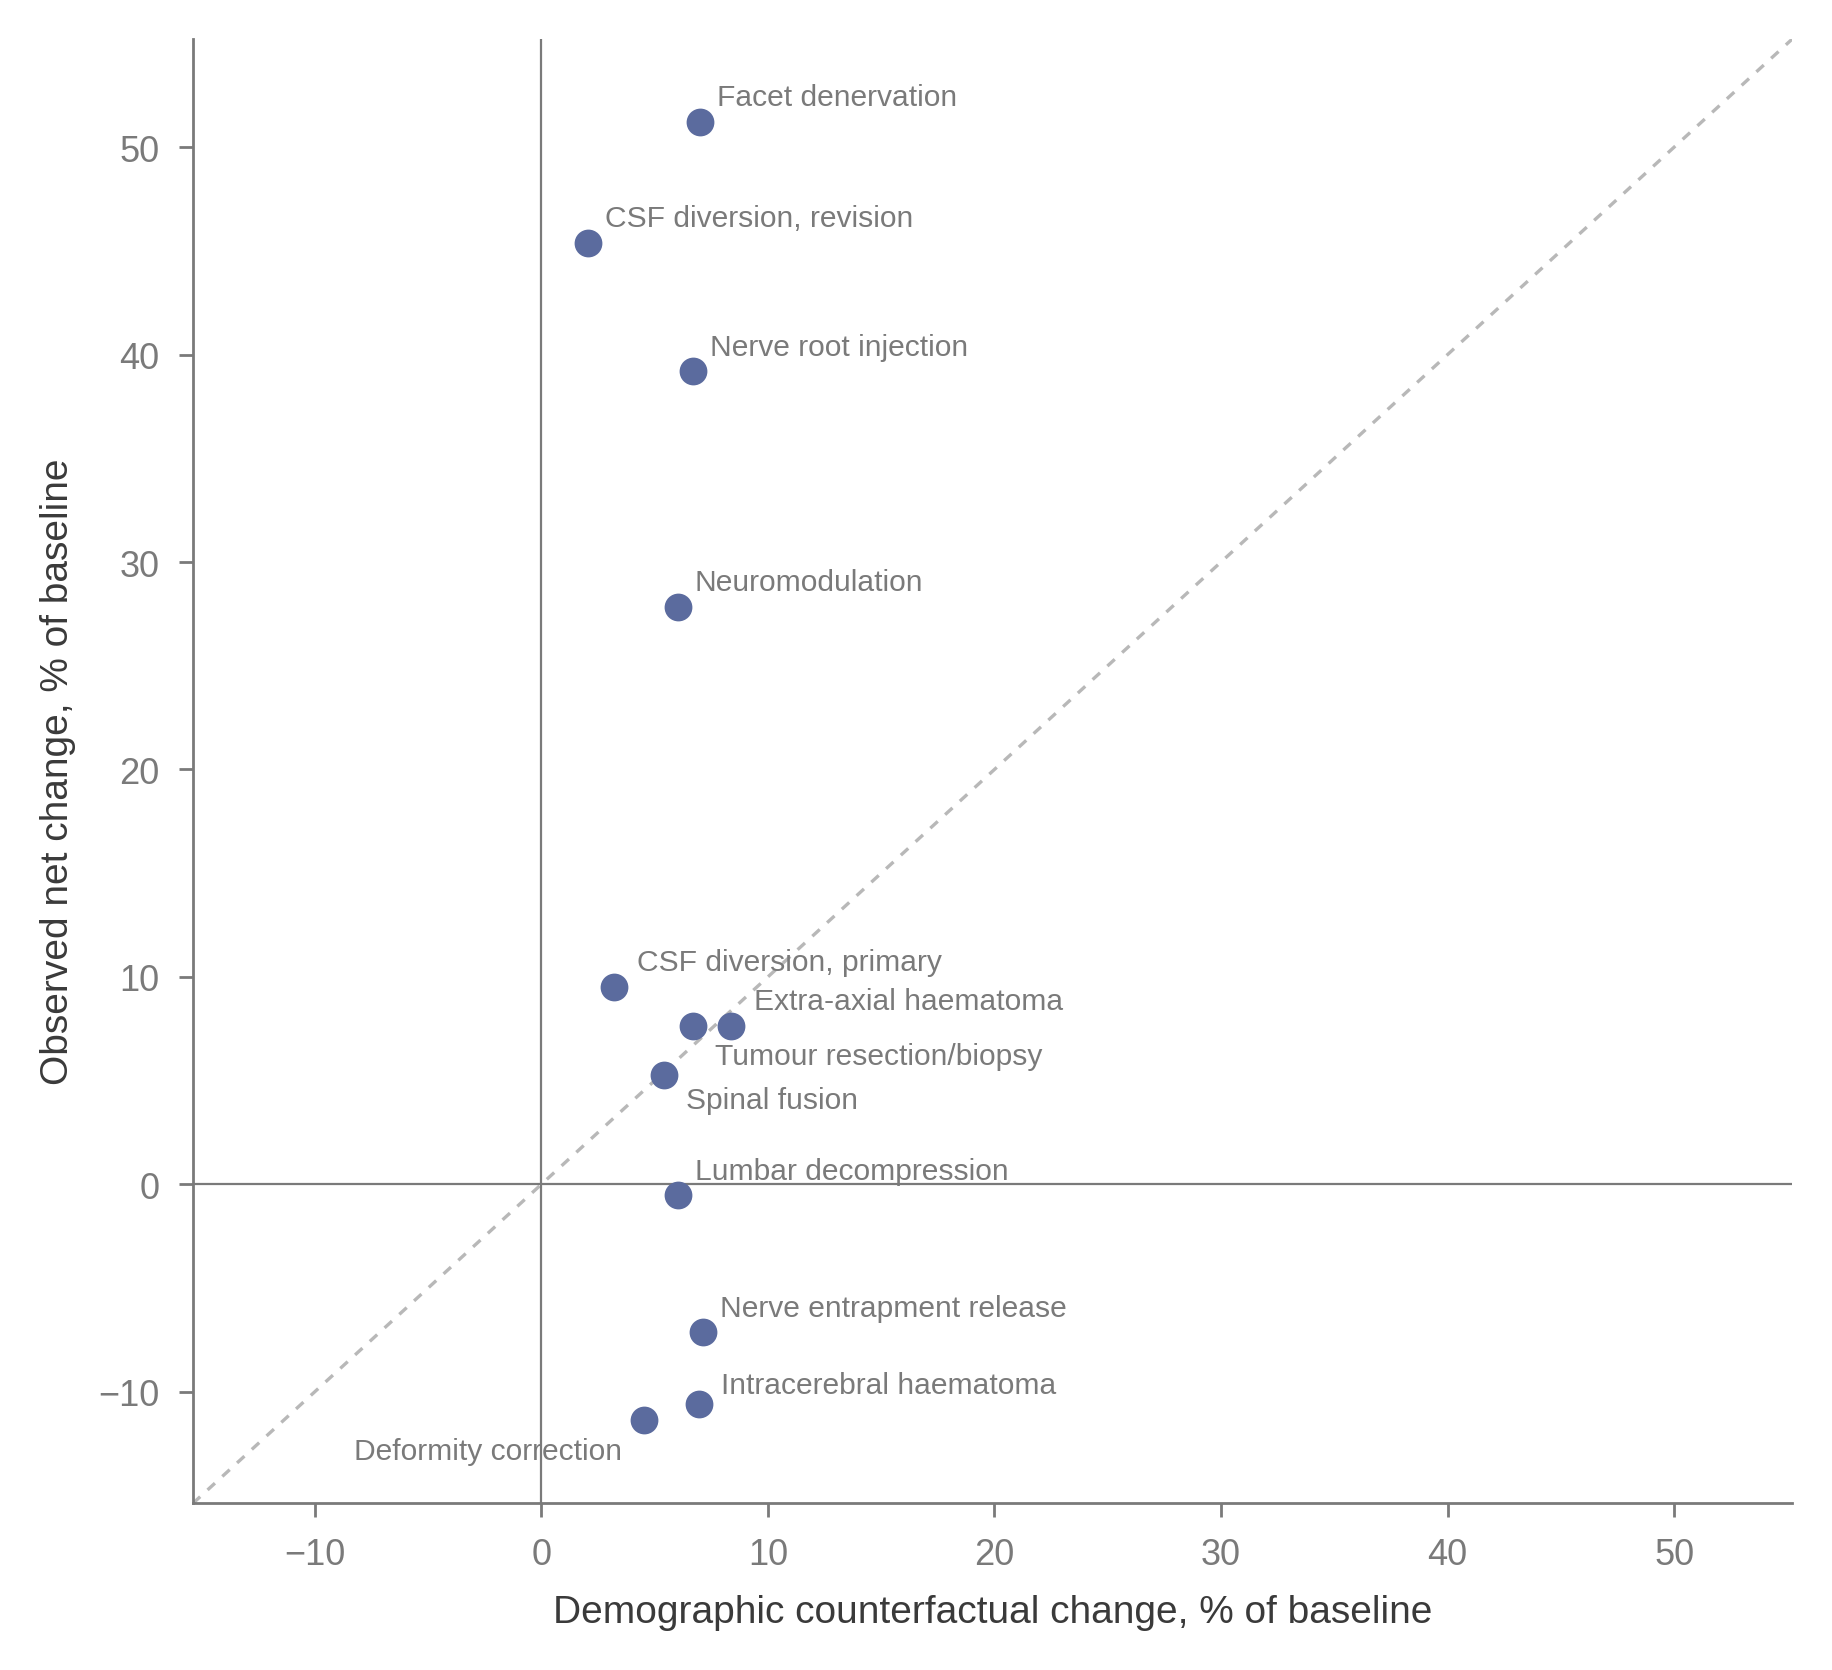
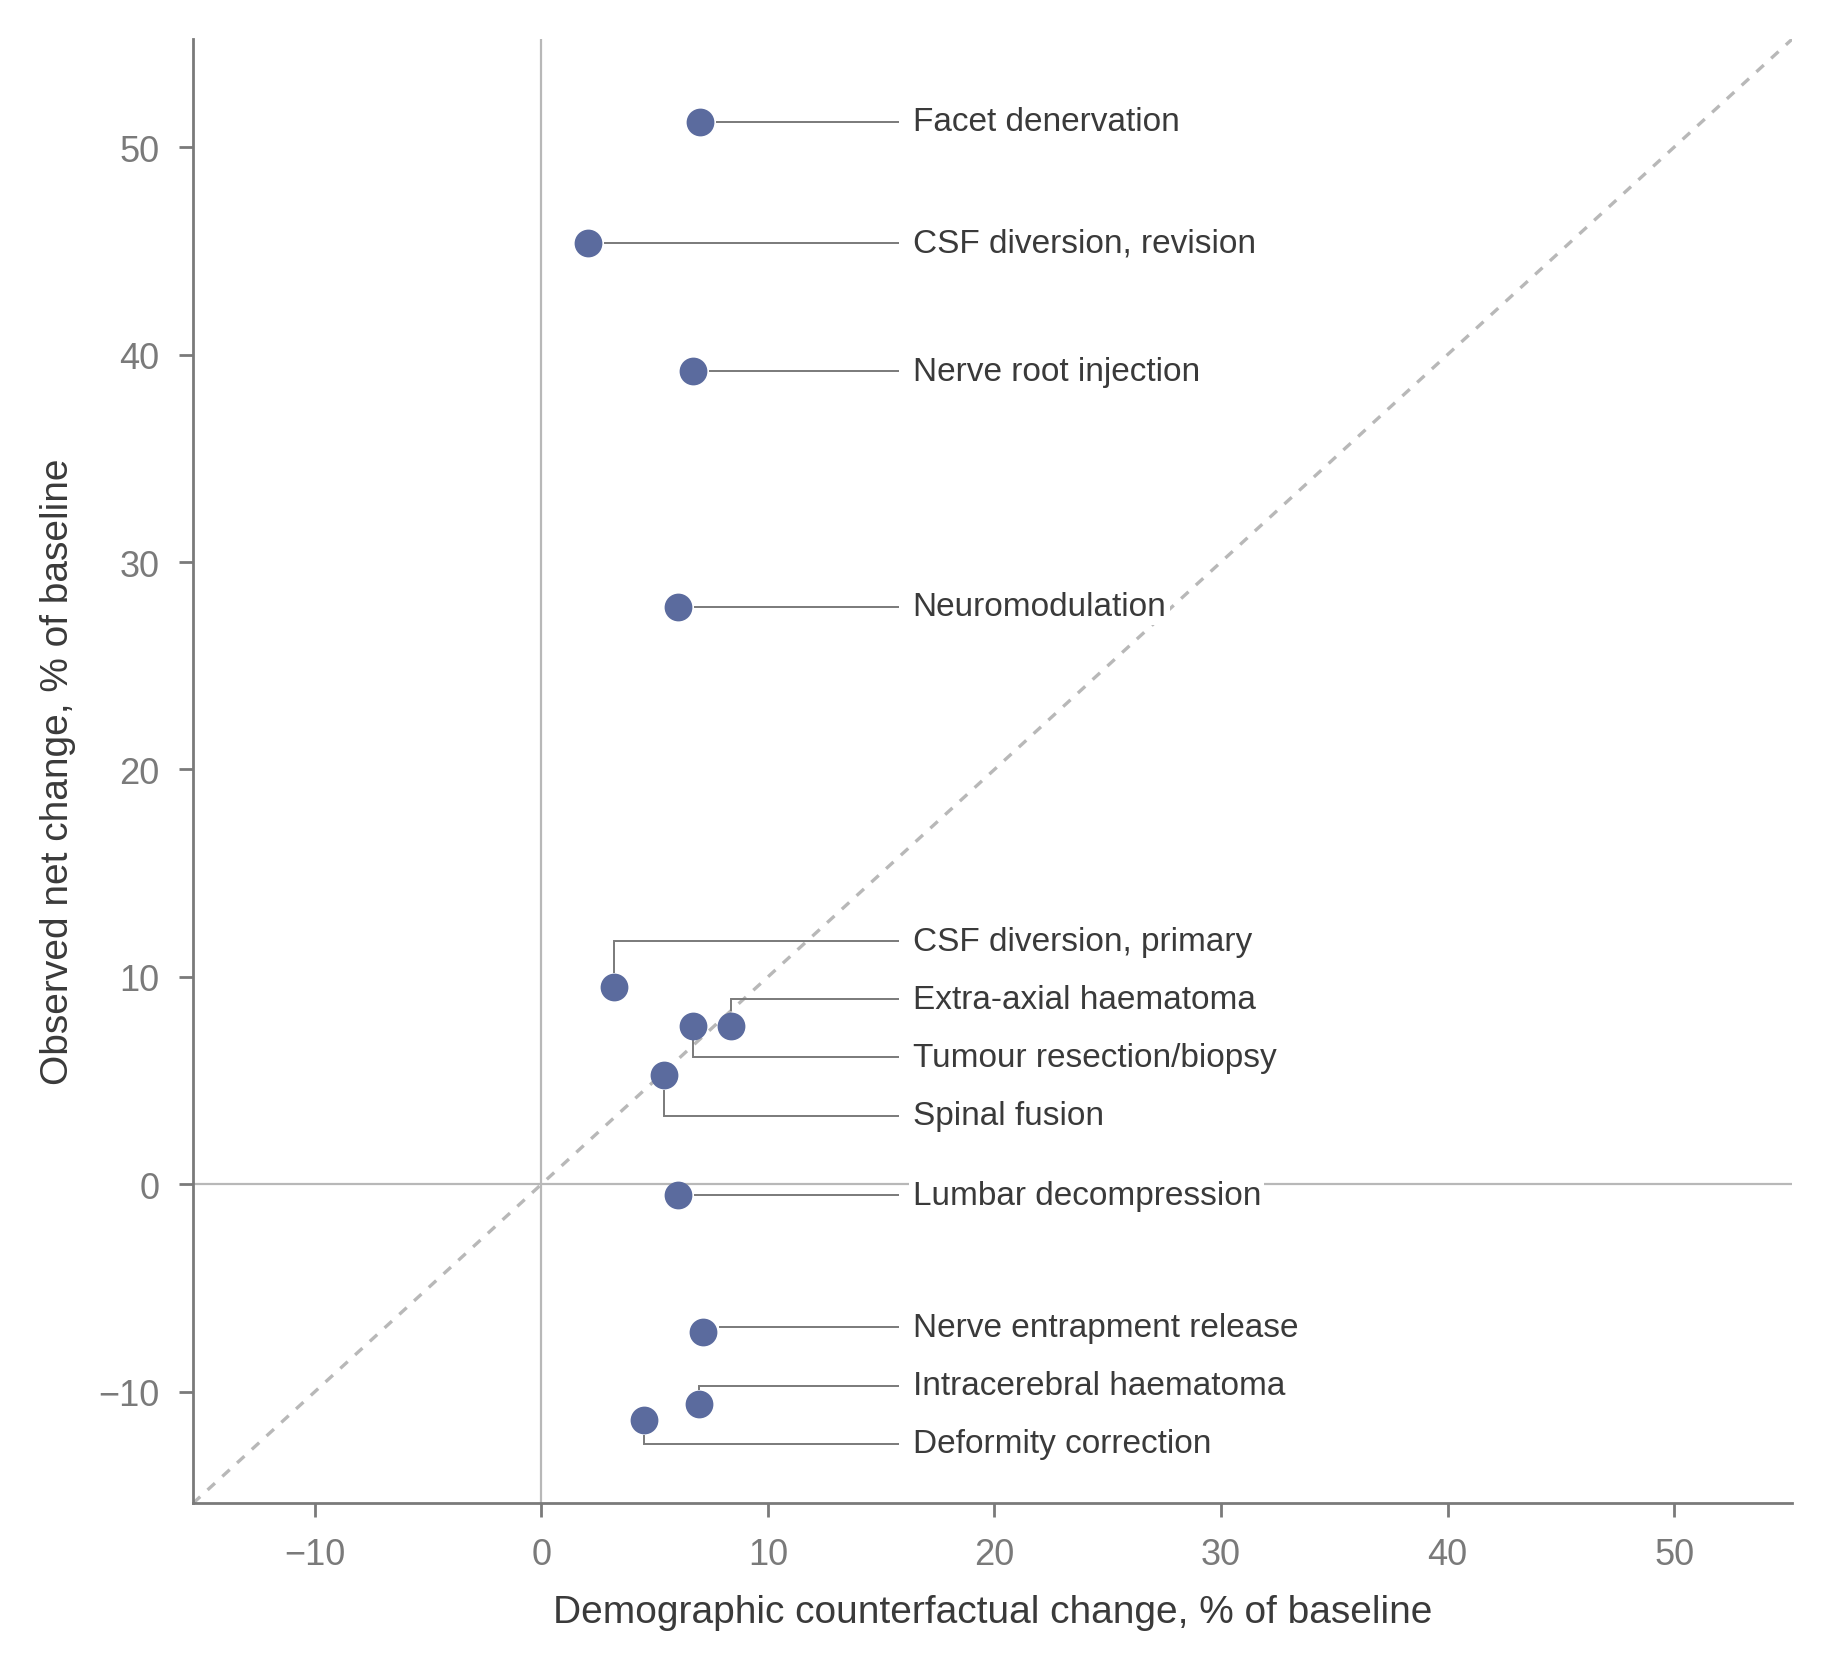
Version 1.1.1: unambiguous point labels in Figure S4
Set the labels of the demographic counterfactual scatter in one column with
elbow leader lines, so that each label is attached to its point. Numerical
outputs are unchanged.

diff --git a/src/s05_figures.py b/src/s05_figures.py
@@ -393,8 +393,8 @@ def figS5_counterfactual():
     hi = max(x.max(), y.max()) + 4
     ax.plot([lo, hi], [lo, hi], color=GREY_LIGHT, lw=0.6, ls=(0, (3, 3)),
             zorder=1)
-    ax.axhline(0, color=GREY_MID, lw=0.4, zorder=1)
-    ax.axvline(0, color=GREY_MID, lw=0.4, zorder=1)
+    ax.axhline(0, color=GREY_LIGHT, lw=0.4, zorder=1)
+    ax.axvline(0, color=GREY_LIGHT, lw=0.4, zorder=1)
     ax.plot(x, y, "o", mfc=ACCENT, mec=ACCENT, ms=4, ls="none", zorder=3)
     short = {
         "Extra-axial haematoma evacuation": "Extra-axial haematoma",
@@ -410,19 +410,43 @@ def figS5_counterfactual():
         "Spinal deformity correction": "Deformity correction",
         "Spinal facet joint denervation": "Facet denervation",
     }
-    offsets = {
-        "Intracranial tumour resection and biopsy": (4, -7),
-        "Extra-axial haematoma evacuation": (4, 3),
-        "Spinal deformity correction": (-4, -7),
-        "Intracerebral haematoma evacuation": (4, 2),
-        "Spinal fusion and instrumentation": (4, -6),
-        "CSF diversion, primary": (4, 3),
-    }
-    for xi, yi, g in zip(x, y, cf["group"]):
-        dx, dy = offsets.get(g, (3, 3))
-        ax.annotate(short[g], (xi, yi), xytext=(dx, dy),
-                    textcoords="offset points", fontsize=5.4, color=GREY_MID,
-                    ha="right" if dx < 0 else "left")
+    # Labels are set in one column to the right of the points, at the height
+    # of their point where possible and spaced apart where points are close.
+    # Each label is joined to its point by an elbow leader (vertical, then
+    # horizontal), so that no leader passes through another point; where two
+    # points share a height, the point further right takes the upper label.
+    label_x = float(x.max()) + 8
+    gap = 2.8      # minimum vertical spacing between labels, data units
+    r = 0.7        # clearance from the marker centre, data units
+    key = y.to_numpy() + 0.05 * x.to_numpy()
+    order = np.argsort(key)
+    ys = y.to_numpy()[order].astype(float)
+    xs = x.to_numpy()[order].astype(float)
+    groups = cf["group"].to_numpy()[order]
+    pos = ys.copy()
+    for _ in range(500):
+        moved = False
+        for i in range(1, len(pos)):
+            d = pos[i] - pos[i - 1]
+            if d < gap - 1e-9:
+                shift = (gap - d) / 2
+                pos[i - 1] -= shift
+                pos[i] += shift
+                moved = True
+        if not moved:
+            break
+    for xi, yi, li, g in zip(xs, ys, pos, groups):
+        if abs(li - yi) < 0.3:
+            px, py = [xi + r, label_x - 0.6], [li, li]
+        else:
+            sgn = 1 if li > yi else -1
+            px = [xi, xi, label_x - 0.6]
+            py = [yi + sgn * r, li, li]
+        ax.plot(px, py, color=GREY_MID, lw=0.35, zorder=2,
+                solid_joinstyle="miter", solid_capstyle="butt")
+        ax.text(label_x, li, short[g], fontsize=6, color=GREY_DARK,
+                ha="left", va="center", zorder=4,
+                bbox=dict(facecolor="white", edgecolor="none", pad=0.6))
     ax.set_xlim(lo, hi)
     ax.set_ylim(lo, hi)
     ax.set_xlabel("Demographic counterfactual change, % of baseline")

diff --git a/MANIFEST.md b/MANIFEST.md
@@ -1,6 +1,6 @@
 # Manifest
 
-Generated 2026-11-14T15:39:32+00:00.
+Generated 2026-11-14T16:04:27+00:00.
 144 files, 14.2 MB.
 
 SHA-256 is given for every file. The source data files and their
@@ -13,10 +13,10 @@ and `src/s01_fetch.py` refuses to proceed if a source file differs.
 |---|---|---|---|
 | `.github/workflows/verify.yml` | 1 kB | `15b735059324` | Continuous integration: rebuild and verify outputs |
 | `.gitignore` | 0 kB | `0ac42a5f77fd` | Excluded local, cache and unlicensed source files |
-| `.zenodo.json` | 2 kB | `3ee2ced1363c` | Archival metadata for Zenodo |
-| `CITATION.cff` | 2 kB | `e4d6718842d3` | Citation metadata for this software release |
+| `.zenodo.json` | 2 kB | `d52a75f5a762` | Archival metadata for Zenodo |
+| `CITATION.cff` | 2 kB | `0af153ad383a` | Citation metadata for this software release |
 | `LICENSE` | 1 kB | `df0804fec300` | MIT licence for the analysis code |
-| `README.md` | 8 kB | `b82857e5d549` | Study summary, data sources, method and instructions for reproduction |
+| `README.md` | 8 kB | `952c1b5f622d` | Study summary, data sources, method and instructions for reproduction |
 | `RESULTS.md` | 2 kB | `f98128c661dc` | Results summary generated from derived/key_results.json |
 | `THIRD_PARTY_DATA.md` | 2 kB | `7d17b83be427` | Licensing and attribution of third-party source data |
 | `pyproject.toml` | 0 kB | `c3e5986650e4` | Python project metadata and pinned runtime dependencies |
@@ -32,7 +32,7 @@ and `src/s01_fetch.py` refuses to proceed if a source file differs.
 | `src/s02_build.py` | 7 kB | `28445a5b253d` | Build six analysis dataset variants; integrity checks C1 to C3 |
 | `src/s03_decompose.py` | 18 kB | `c0b3d7d8b05d` | Three-factor decomposition; Shapley, endpoints, cumulated annual, variance, counterfactual |
 | `src/s04_tables.py` | 12 kB | `c047e753a088` | Working tables (tab_*.csv) |
-| `src/s05_figures.py` | 22 kB | `d27588920056` | Working figures (fig_*.pdf/.eps/.tiff/.png) |
+| `src/s05_figures.py` | 23 kB | `d7f6363829b8` | Working figures (fig_*.pdf/.eps/.tiff/.png) |
 | `src/s06_verify.py` | 23 kB | `af991f135c2d` | Consistency, reconciliation and robustness checks; exits non-zero on failure |
 | `src/s07_substitution.py` | 6 kB | `b1bc83e7392c` | Candidate embolisation codes against extra-axial haematoma evacuation |
 | `src/s08_projection.py` | 10 kB | `2a9ed5156ea5` | Fixed-rate demographic scenario to 2039/40 |
@@ -129,8 +129,8 @@ and `src/s01_fetch.py` refuses to proceed if a source file differs.
 | `outputs/figures/fig_asr_trajectories.png` | 404 kB | `2836ea0f7524` | Working figure |
 | `outputs/figures/fig_code_level_trends.pdf` | 16 kB | `f2520404dc60` | Working figure (PDF) |
 | `outputs/figures/fig_code_level_trends.png` | 439 kB | `3ff6a2dba09b` | Working figure |
-| `outputs/figures/fig_counterfactual_scatter.pdf` | 14 kB | `f23aa20df478` | Working figure (PDF) |
-| `outputs/figures/fig_counterfactual_scatter.png` | 167 kB | `3cefab57bff4` | Working figure |
+| `outputs/figures/fig_counterfactual_scatter.pdf` | 15 kB | `a43c8e0e9b99` | Working figure (PDF) |
+| `outputs/figures/fig_counterfactual_scatter.png` | 183 kB | `970a49619441` | Working figure |
 | `outputs/figures/fig_counting_sensitivity.pdf` | 14 kB | `81c6dc08e166` | Working figure (PDF) |
 | `outputs/figures/fig_counting_sensitivity.png` | 191 kB | `443da65f8c52` | Working figure |
 | `outputs/figures/fig_decomposition_components.pdf` | 17 kB | `6997cd141ba4` | Working figure (PDF) |
@@ -155,8 +155,8 @@ and `src/s01_fetch.py` refuses to proceed if a source file differs.
 | `outputs/publication/FigS2.png` | 661 kB | `8bab1edeec31` | Supplementary figure (numbered as in the article) |
 | `outputs/publication/FigS3.pdf` | 17 kB | `6997cd141ba4` | Supplementary figure (numbered as in the article) (PDF) |
 | `outputs/publication/FigS3.png` | 232 kB | `44b3c7a3c06c` | Supplementary figure (numbered as in the article) |
-| `outputs/publication/FigS4.pdf` | 14 kB | `f23aa20df478` | Supplementary figure (numbered as in the article) (PDF) |
-| `outputs/publication/FigS4.png` | 167 kB | `3cefab57bff4` | Supplementary figure (numbered as in the article) |
+| `outputs/publication/FigS4.pdf` | 15 kB | `a43c8e0e9b99` | Supplementary figure (numbered as in the article) (PDF) |
+| `outputs/publication/FigS4.png` | 183 kB | `970a49619441` | Supplementary figure (numbered as in the article) |
 | `outputs/publication/FigS5.pdf` | 14 kB | `000909bbec68` | Supplementary figure (numbered as in the article) (PDF) |
 | `outputs/publication/FigS5.png` | 204 kB | `336ef6507281` | Supplementary figure (numbered as in the article) |
 | `outputs/publication/FigS6.pdf` | 14 kB | `81c6dc08e166` | Supplementary figure (numbered as in the article) (PDF) |

diff --git a/README.md b/README.md
@@ -143,6 +143,9 @@ the Zenodo record.
 
 ## Changes
 
+- 1.1.1: point labels in the demographic counterfactual scatter (Figure S4)
+  are set in one column with elbow leader lines, so that each label is
+  unambiguously attached to its point. No numerical output changed.
 - 1.1.0: the primary 2039/40 scenario is additionally split by broad age at
   the time of the procedure (0 to 64, 65 to 79, 80 and over;
   `derived/projection_2040_by_age.csv`, reported in Table 3); figure 1 panels
